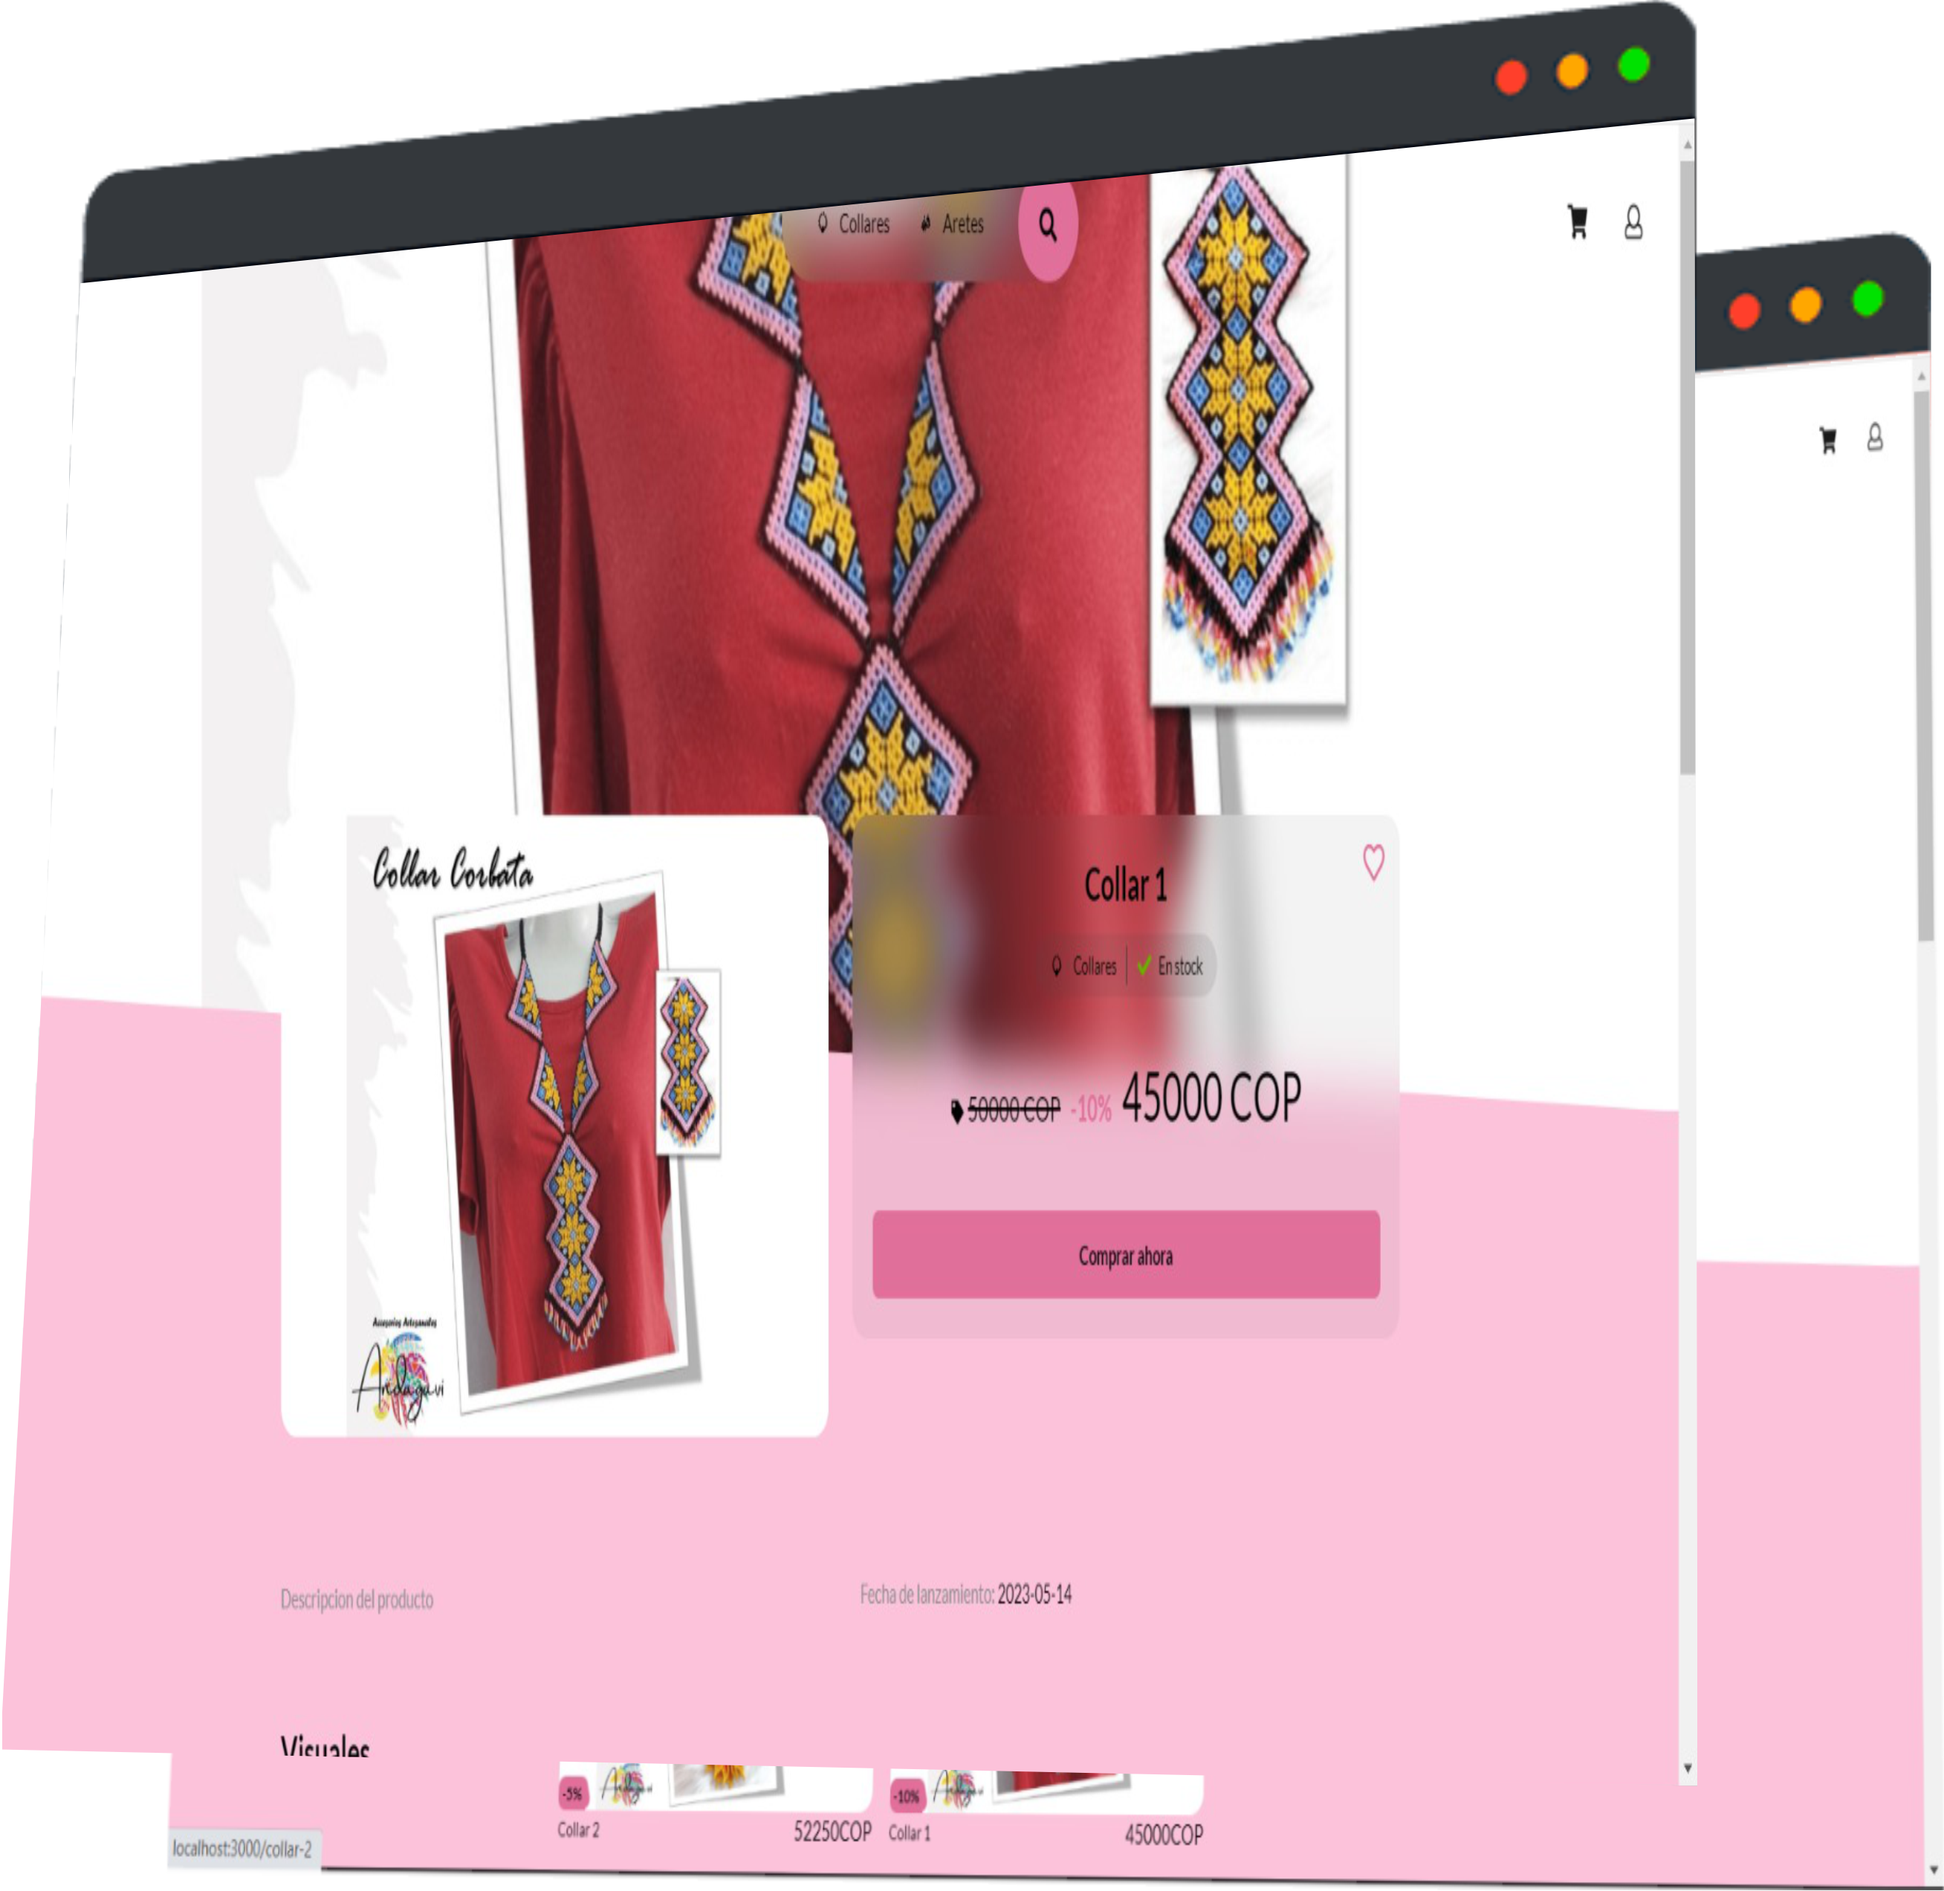
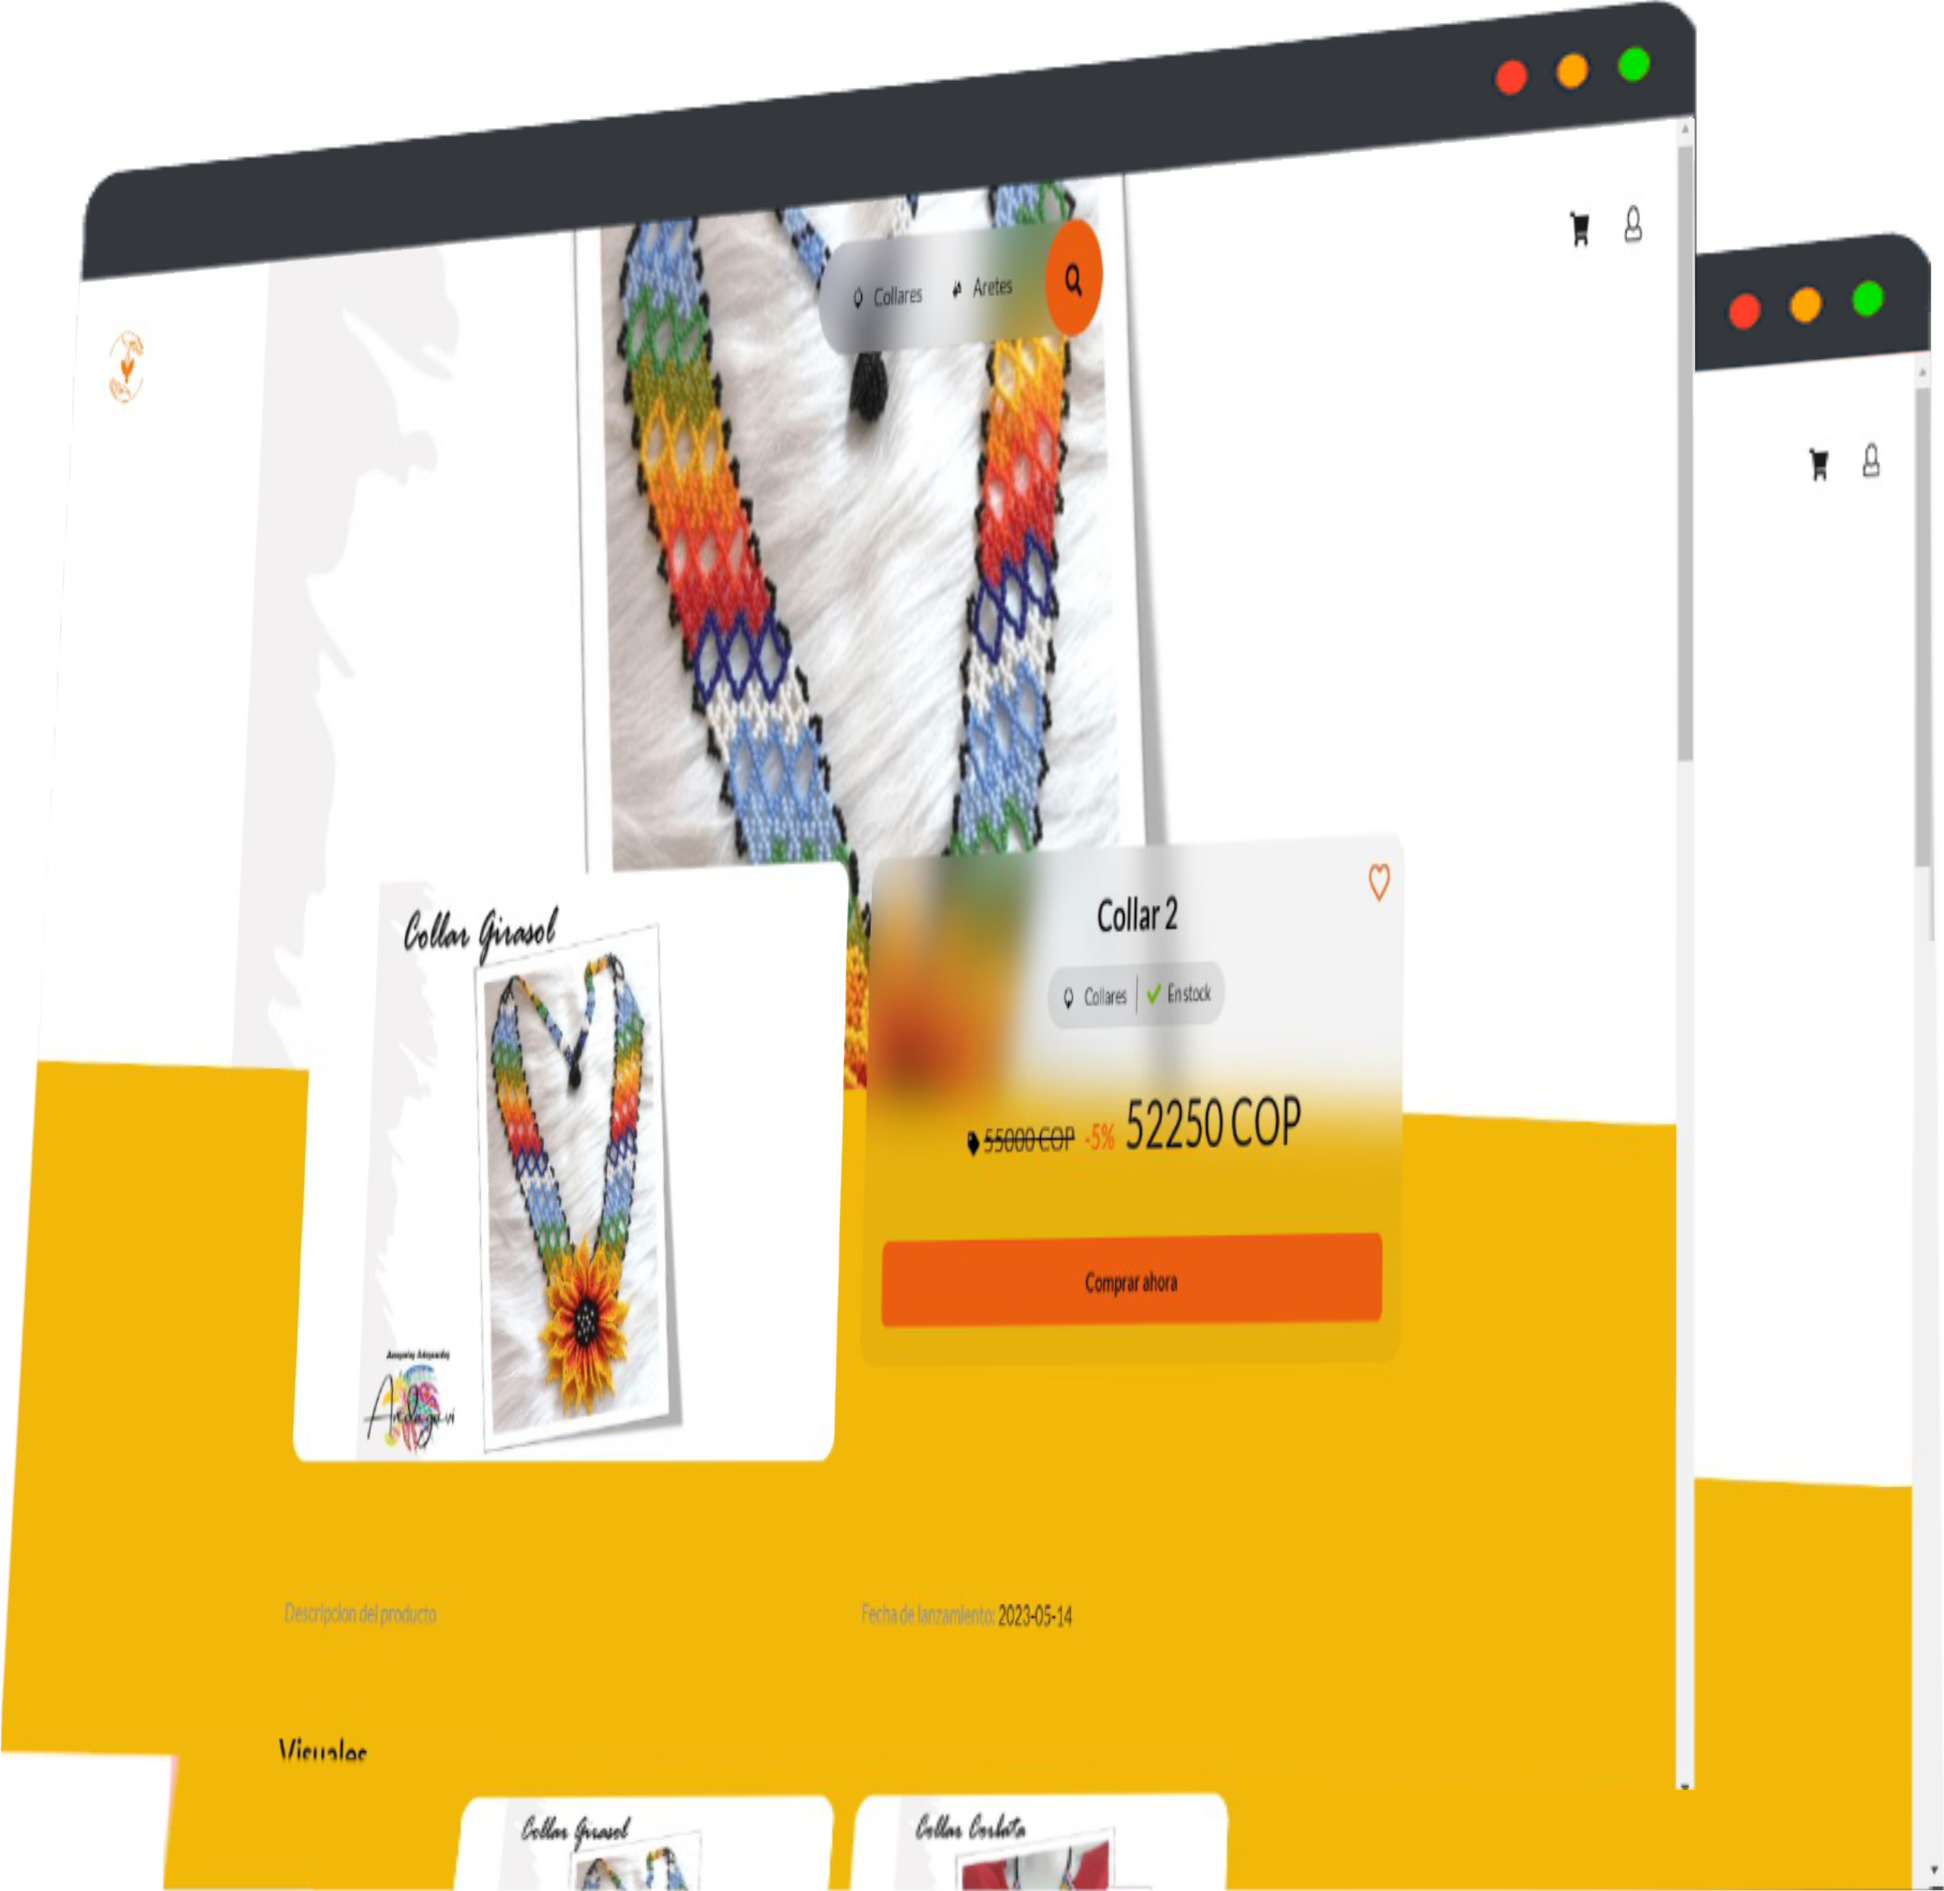
cambio de marca

diff --git a/src/scss/colors.scss b/src/scss/colors.scss
@@ -1,5 +1,5 @@
-$primary: #e06f9a;
-$primary-hover: #fa91c0;
+$primary: #eb5d11;
+$primary-hover: #f1890c;
 
 $text-primary: #000;
 $text-secondary: #909090;
@@ -7,8 +7,8 @@ $text-secondary: #909090;
 $border-primary: #3d3d3d;
 $border-secondary: #474747;
 
-$background-primary: #fcc2da;
-$background-secondary: #fcc2da;
+$background-primary: #f1b80a;
+$background-secondary: #f1b80a;
 $background-tertiary: #fcfcfc;
 $background-quaternary: #fcfcfc;
 $background-quaternary__blur: #3d3d3d10;

diff --git a/src/components/Shared/BannerAd/BannerAd.module.scss b/src/components/Shared/BannerAd/BannerAd.module.scss
@@ -7,8 +7,8 @@
   background-color: #489bca;
   background-image: radial-gradient(
      circle at center bottom,
-     #e06f9a 0,
-     #fa91c0 29%,
+     #f1b80a 0,
+     #fff1b5 29%,
      #fff 73%
   );
 

diff --git a/src/components/Layout/TopBar/TopBar.js b/src/components/Layout/TopBar/TopBar.js
@@ -20,7 +20,7 @@ export function TopBar(props) {
       </div>
 
       <div className={styles.right}>
-        <Account />
+        {/* <Account /> */}
       </div>
     </div>
   );
